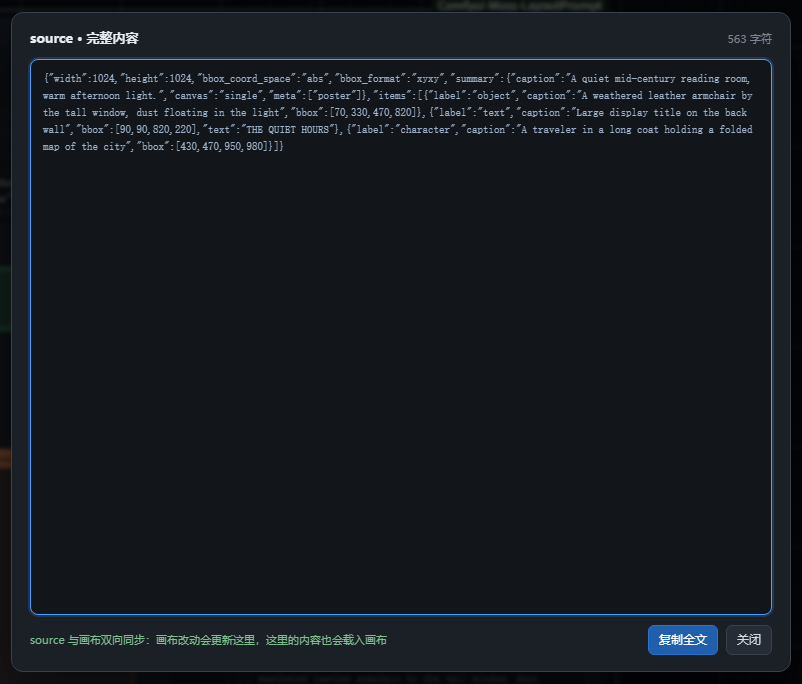
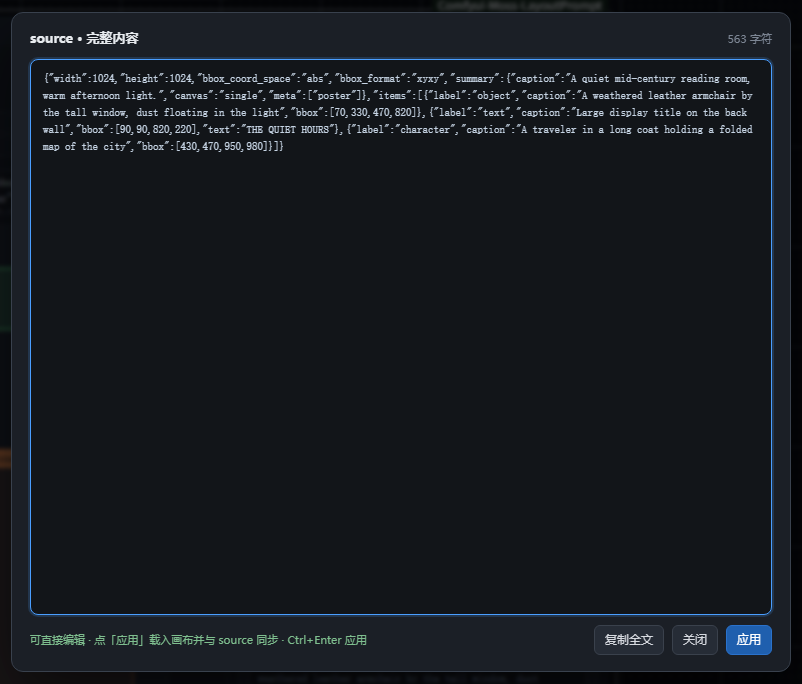
添加输入修改功能

diff --git a/web/moss_layout.js b/web/moss_layout.js
@@ -91,11 +91,13 @@ const CSS = `
 .mlp-modal-head{display:flex;align-items:baseline;gap:10px;flex:0 0 auto}
 .mlp-modal-title{font-size:13px;font-weight:600;color:#e8ebef}
 .mlp-modal-sub{font-size:11px;color:#7d8694}
-.mlp-modal-note{font-size:11px;color:#7fbf8f;white-space:nowrap;overflow:hidden;text-overflow:ellipsis}
+.mlp-modal-note{flex:1 1 auto;min-width:0;font-size:11px;color:#7fbf8f;white-space:nowrap;
+  overflow:hidden;text-overflow:ellipsis}
+.mlp-modal-note.is-error{color:#ff8a8a}
 .mlp-modal-body{flex:1 1 0;min-height:0;box-sizing:border-box;width:100%;resize:none;overflow:auto;
-  border:1px solid #343b47;border-radius:8px;background:#121519;color:#9fb4cc;padding:10px 12px;
+  border:1px solid #343b47;border-radius:8px;background:#121519;color:#c6d4e4;padding:10px 12px;
   font:11px/1.55 ui-monospace,SFMono-Regular,Menlo,monospace;white-space:pre-wrap;word-break:break-word;
-  outline:none}
+  outline:none;caret-color:#4a9eff}
 .mlp-modal-body:focus{border-color:#4a9eff;box-shadow:0 0 0 2px rgba(74,158,255,.18)}
 .mlp-modal-body::-webkit-scrollbar{width:8px;height:8px}
 .mlp-modal-body::-webkit-scrollbar-thumb{background:#343b47;border-radius:4px}
@@ -803,11 +805,51 @@ function createEditor(node) {
     if (element instanceof HTMLTextAreaElement) element.focus({ preventScroll: true });
   }
 
+  function setDialogNote(note, message, isError) {
+    note.textContent = message;
+    note.classList.toggle("is-error", Boolean(isError));
+  }
+
+  // Apply the edited dialog text: load it onto the canvas and let the normal sync
+  // write the normalized draft back into `source`. Invalid text keeps the dialog
+  // open with an inline error, so nothing is lost or half-applied.
+  function applyDialogSource(dialog) {
+    if (!dialog) return;
+    const { body, note } = dialog;
+    const text = body.value;
+    if (!text.trim()) {
+      setDialogNote(note, "内容为空：请粘贴草稿 JSON、已编译提示词或旧版 scene 提示词", true);
+      return;
+    }
+    const widget = widgetByName(SOURCE_WIDGET);
+    if (widget && text === widget.value) {
+      closeSourceDialog();
+      return;
+    }
+    try {
+      if (!loadDraftText(text, null)) {
+        setDialogNote(note, "无法解析这段文本：需要草稿 JSON、已编译提示词或旧版 scene 提示词", true);
+        return;
+      }
+    } catch (error) {
+      setDialogNote(note, `无法载入：${error?.message ?? error}`, true);
+      return;
+    }
+    closeSourceDialog();
+    flash("已应用 source 内容并同步画布");
+  }
+
   function sourceDialogKeyDown(event) {
     if (event.key === "Escape") {
       event.preventDefault();
       event.stopPropagation();
       closeSourceDialog();
+      return;
+    }
+    if (event.key === "Enter" && (event.ctrlKey || event.metaKey)) {
+      event.preventDefault();
+      event.stopPropagation();
+      applyDialogSource(sourceDialog);
       return;
     }
     // Keep canvas shortcuts (Delete, Backspace, …) from firing behind the dialog.
@@ -844,19 +886,33 @@ function createEditor(node) {
     fallback();
   }
 
-  function showSourceDialog(text, hasBoxes) {
+  function showSourceDialog(text) {
     closeSourceDialog();
     const body = h("textarea", {
       class: "mlp-modal-body",
-      readonly: "readonly",
       spellcheck: "false",
-      "aria-label": "source 完整内容",
+      "aria-label": "source 内容",
     });
     body.value = text;
-    const copy = h("button", { type: "button", class: "mlp-btn mlp-btn-primary", text: "复制全文" });
-    copy.addEventListener("click", () => copySourceText(text, copy));
+    const count = h("span", { class: "mlp-modal-sub", text: `${text.length} 字符` });
+    body.addEventListener("input", () => {
+      count.textContent = `${body.value.length} 字符`;
+    });
+    const note = h("span", {
+      class: "mlp-modal-note",
+      text: "可直接编辑 · 点「应用」载入画布并与 source 同步 · Ctrl+Enter 应用",
+    });
+    const copy = h("button", { type: "button", class: "mlp-btn", text: "复制全文" });
+    copy.addEventListener("click", () => copySourceText(body.value, copy));
     const close = h("button", { type: "button", class: "mlp-btn", text: "关闭" });
     close.addEventListener("click", closeSourceDialog);
+    const apply = h("button", {
+      type: "button",
+      class: "mlp-btn mlp-btn-primary",
+      text: "应用",
+      title: "把这段内容载入画布，并同步回 source 输入框",
+    });
+    apply.addEventListener("click", () => applyDialogSource(sourceDialog));
     const modal = h("div", {
       class: "mlp-modal",
       role: "dialog",
@@ -866,20 +922,10 @@ function createEditor(node) {
       h("div", { class: "mlp-modal-head" }, [
         h("span", { class: "mlp-modal-title", text: "source · 完整内容" }),
         h("span", { class: "mlp-spacer" }),
-        h("span", { class: "mlp-modal-sub", text: `${text.length} 字符` }),
+        count,
       ]),
       body,
-      h("div", { class: "mlp-modal-foot" }, [
-        h("span", {
-          class: "mlp-modal-note",
-          text: hasBoxes
-            ? "source 与画布双向同步：画布改动会更新这里，这里的内容也会载入画布"
-            : "画布还没有框；在上方输入框或这里粘贴草稿即可载入画布",
-        }),
-        h("span", { class: "mlp-spacer" }),
-        copy,
-        close,
-      ]),
+      h("div", { class: "mlp-modal-foot" }, [note, copy, close, apply]),
     ]);
     const backdrop = h("div", {
       class: "mlp-modal-backdrop",
@@ -889,21 +935,21 @@ function createEditor(node) {
     }, [modal]);
     document.body.append(backdrop);
     document.addEventListener("keydown", sourceDialogKeyDown, true);
-    sourceDialog = { backdrop };
+    sourceDialog = { backdrop, body, note };
     body.focus({ preventScroll: true });
     body.setSelectionRange?.(0, 0);
   }
 
-  // The source tab is a button that opens the full text (the strip itself only
-  // shows two lines). `source` is mirrored from the canvas, so the dialog always
-  // shows the current draft rather than an outdated paste.
+  // The source tab opens the full text in an editable dialog (the strip itself
+  // only shows two lines). Applying it loads the canvas; the sync then writes the
+  // normalized draft back, so the dialog and the mini field always agree.
   function openSourceDialog() {
     const widget = widgetByName(SOURCE_WIDGET);
     if (!widget) return;
     window.clearTimeout(sourceTimer);
     mirrorSource();
     const text = typeof widget.value === "string" ? widget.value : "";
-    showSourceDialog(text, state.items.length > 0);
+    showSourceDialog(text);
   }
 
   function watchWidgets() {

diff --git a/README.md b/README.md
@@ -50,10 +50,11 @@ input: `source` takes a draft JSON, a compiled prompt or a legacy scene prompt a
 loads it onto the canvas. `source` and the canvas are kept in sync both ways:
 editing or pasting into `source` loads it onto the canvas, and every edit on the
 canvas writes the current draft back into `source`. The field is framed like an
-input, and its `source` tab is a button that opens the complete text in a dialog
-(the strip itself only shows two lines).
+input, and its `source` tab is a button that opens the complete text in an editable
+dialog (the strip itself only shows two lines); fix the JSON there and press
+**应用** to load it onto the canvas and sync it back into `source`.
 
-![The source dialog: the complete source text in a large read-only box with copy and close actions, and a note that source and canvas are synced both ways.](assets/source-dialog.png)
+![The source dialog: the complete source text in a large editable box with copy, close and apply actions, and a note that source and canvas are synced both ways.](assets/source-dialog.png)
 
 | Input | |
 | --- | --- |
